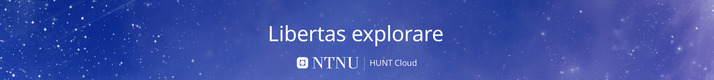
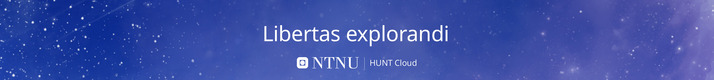
sanity

Changed region(s): [[0.3697, 0.3, 0.6471, 0.575]]

diff --git a/docs/do-science/community/freedom-to-explore.md b/docs/do-science/community/freedom-to-explore.md
@@ -52,6 +52,33 @@ This list is made by current and past community members. Can't find your languag
 
 
 
+### Afrikaans (afr)
+
+!["Blue banner with the slogan Freedom to explore in white letters written in Afrikaans."](./images/freedom-to-explore/hunt-cloud-freedom-to-explore-afr-banner.jpg)
+
+::: details Full Afrikaans version
+
+**Download**:  
+PDF - [Freedom to explore - Afrikaans](https://assets.hdc.ntnu.no/assets/artworks/freedom-to-explore/hunt-cloud-freedom-to-explore-afr-300dpi.pdf) - 300 DPI  
+JPG - [Freedom to explore - Afrikaans](https://assets.hdc.ntnu.no/assets/artworks/freedom-to-explore/hunt-cloud-freedom-to-explore-afr-2160px.jpg) - 2160px
+
+!["Blue banner with the slogan Freedom to explore in white letters written in Afrikaans."](./images/freedom-to-explore/hunt-cloud-freedom-to-explore-afr-400px.jpg)
+
+**Title:** Freedom to explore  
+**Language:** Afrikaans ([afr](https://iso639-3.sil.org/code/afr))  
+**Creator:** Ingunn B. Ferstad, HUNT Cloud / NTNU  
+**License:** CC BY-NC-ND 4.0  
+**Year:** 2023  
+**Version:** 1.1  
+**ArtworkID:** hcc-artwork26  
+
+**Want to improve the translation?** [Click here](/do-science/community/freedom-to-explore#can-i-suggest-an-improved-translation) to suggest an upgrade.
+
+:::
+
+  
+
+
 ### Arabic (ara)
 
 !["Blue banner with the slogan Freedom to explore in white letters written in Arabic."](./images/freedom-to-explore/hunt-cloud-freedom-to-explore-ara-banner.jpg)